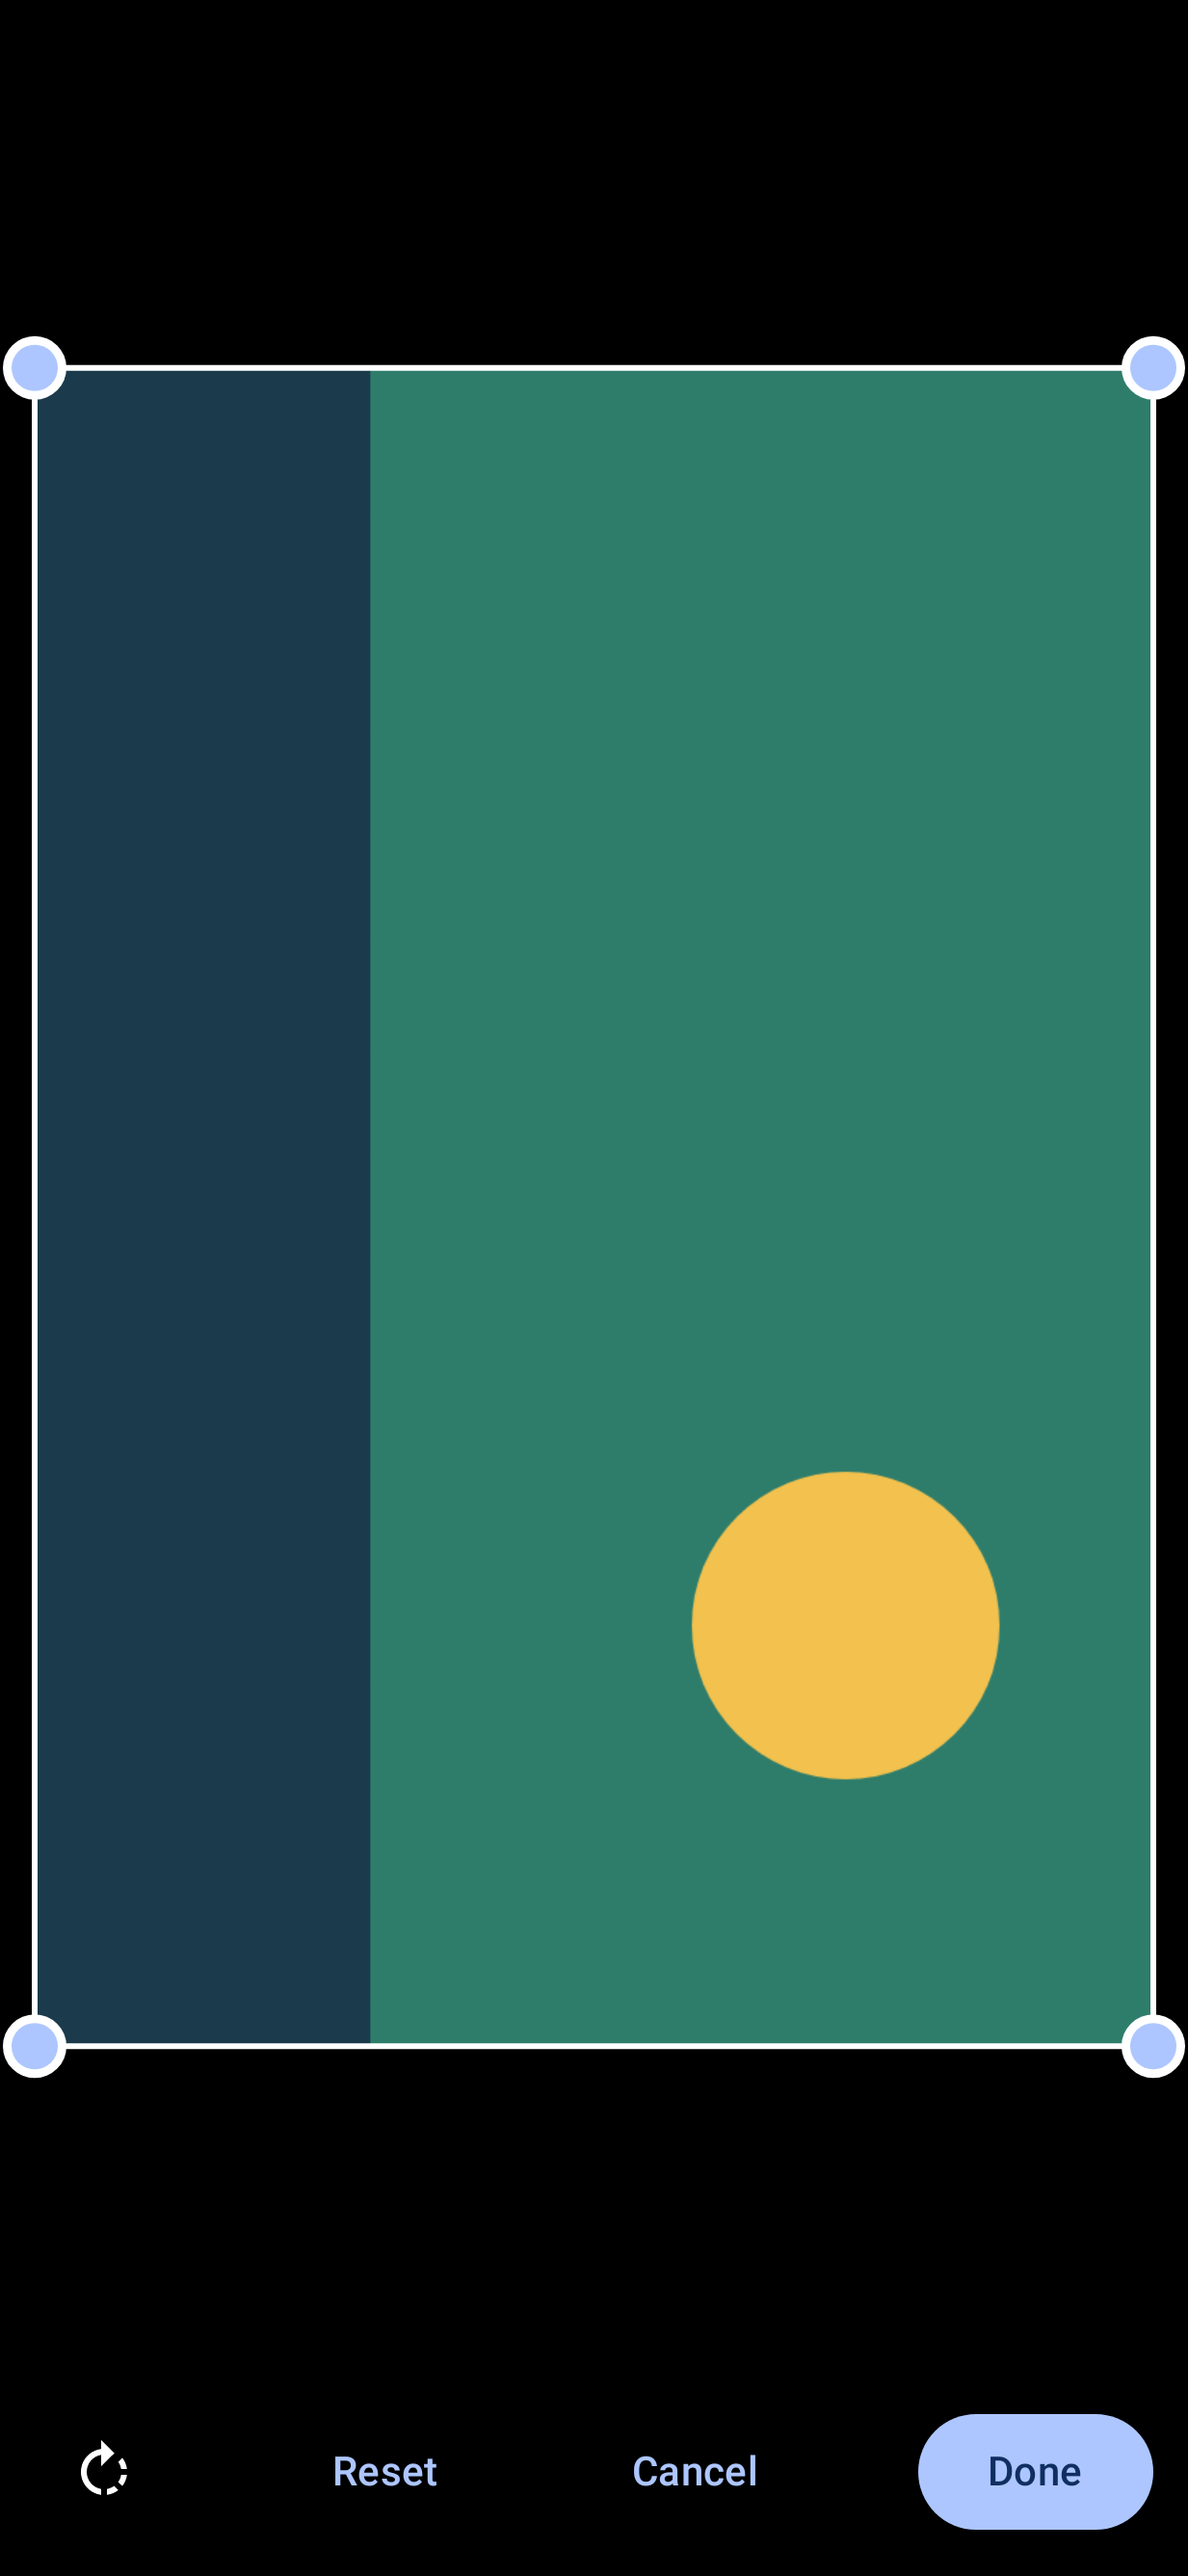
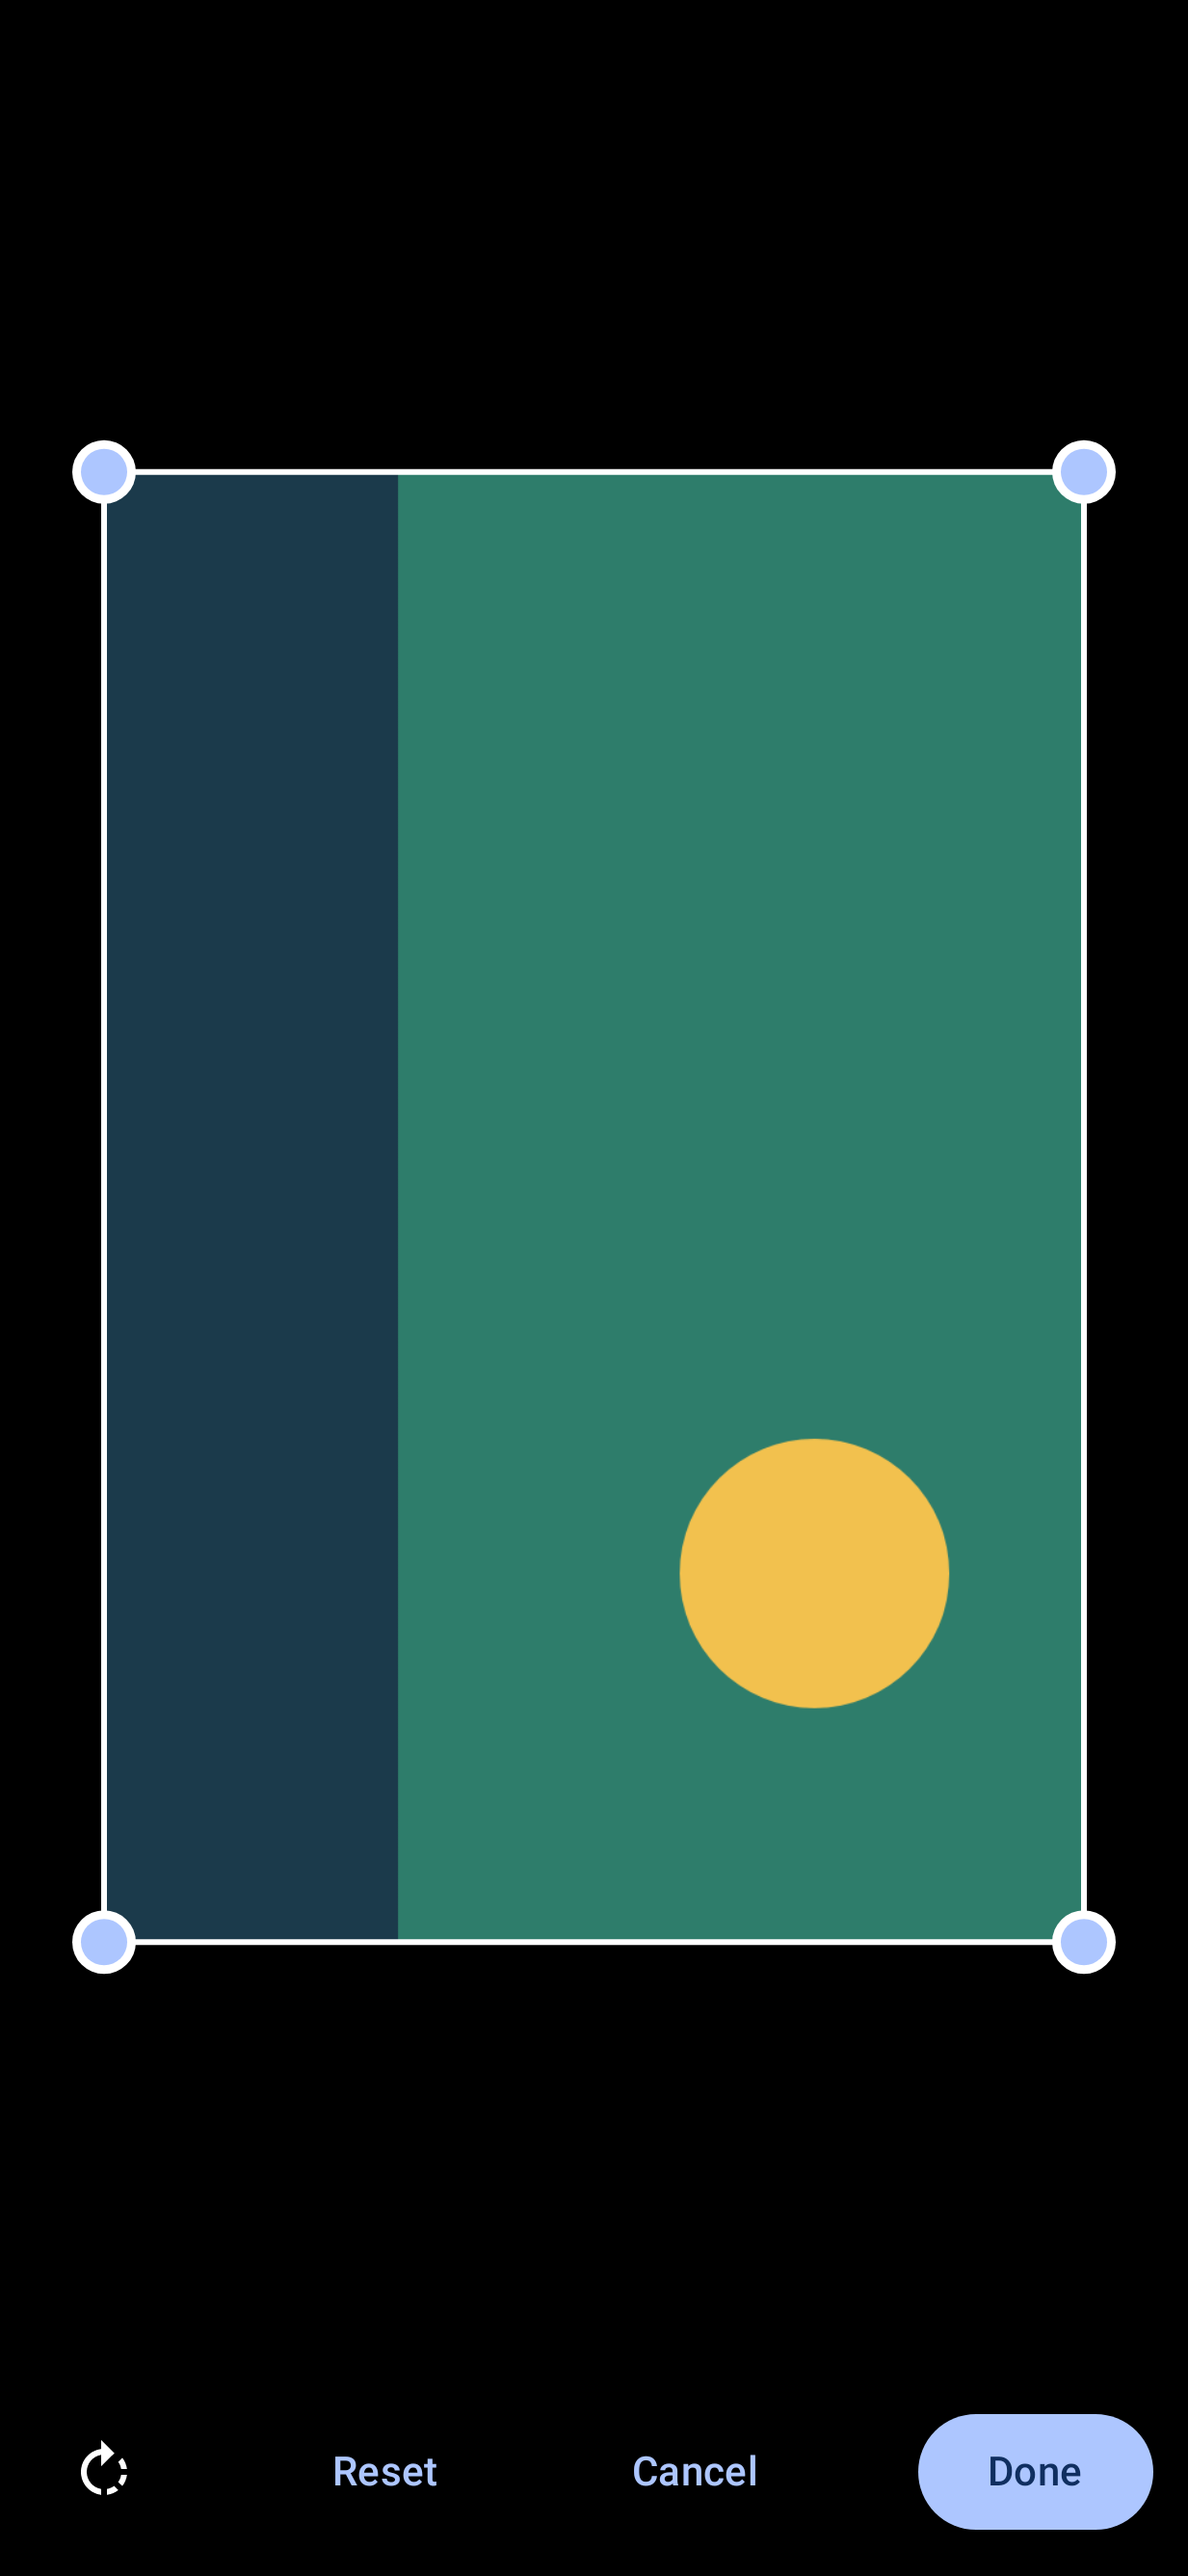
Crop editor: keep corners clear of the back swipe (AII-406)

Changed region(s): [[0.0, 0.1242, 1.0, 0.8073], [0.5547, 0.5589, 0.8629, 0.7142]]

diff --git a/app/src/main/java/com/smizflark/aigile/messenger/ui/PicEditor.kt b/app/src/main/java/com/smizflark/aigile/messenger/ui/PicEditor.kt
@@ -5,6 +5,7 @@ import android.graphics.BitmapFactory
 import android.graphics.Matrix
 import android.media.ExifInterface
 import androidx.compose.foundation.Canvas
+import androidx.compose.foundation.systemGestureExclusion
 import androidx.compose.foundation.layout.Arrangement
 import androidx.compose.foundation.layout.Box
 import androidx.compose.foundation.layout.Column
@@ -56,6 +57,9 @@ import java.util.UUID
 /* ---------- crop and rotate a picked picture (AII-385) ---------- */
 
 private const val EDIT_SIDE = 3072
+
+/** Keeps the crop handles clear of the screen edges, where Android's back swipe lives (AII-406). With the 12dp outer padding they sit 36dp in. */
+internal val PIC_EDGE_INSET = 24.dp
 
 /** Decodes the picture, big ones sampled down, turned upright by its EXIF orientation. The file itself is never changed. */
 internal fun loadForEdit(path: String): Bitmap? = runCatching {
@@ -116,7 +120,7 @@ internal fun PicEditor(path: String, onCancel: () -> Unit, onDone: (String) -> U
     val shown = remember(base, quarters) { base?.let { turned(it, quarters) } }
     Surface(Modifier.fillMaxSize().testTag("pic-editor"), color = Color.Black) {
         Column(Modifier.fillMaxSize().padding(12.dp)) {
-            Box(Modifier.weight(1f).fillMaxWidth(), contentAlignment = Alignment.Center) {
+            Box(Modifier.weight(1f).fillMaxWidth().padding(horizontal = PIC_EDGE_INSET), contentAlignment = Alignment.Center) {
                 if (shown != null) CropArea(shown, crop) { crop = it }
                 else Text(if (failed) stringResource(R.string.pic_edit_failed) else "", color = Color.White)
             }
@@ -155,7 +159,7 @@ private fun CropArea(bmp: Bitmap, crop: PicEdit.Crop, onCrop: (PicEdit.Crop) -> 
     val left = (box.width - w) / 2f; val top = (box.height - h) / 2f
     val latest = androidx.compose.runtime.rememberUpdatedState(crop)
     Canvas(
-        Modifier.fillMaxSize().testTag("pic-crop")
+        Modifier.fillMaxSize().testTag("pic-crop").systemGestureExclusion()
             .onSizeChanged { box = it }
             .pointerInput(bmp, box) {
                 var corner: PicEdit.Corner? = null

diff --git a/app/src/test/java/com/smizflark/aigile/messenger/PicEditorInsetTest.kt b/app/src/test/java/com/smizflark/aigile/messenger/PicEditorInsetTest.kt
@@ -1,0 +1,11 @@
+package com.smizflark.aigile.messenger
+
+import androidx.compose.ui.unit.dp
+import com.smizflark.aigile.messenger.ui.PIC_EDGE_INSET
+import org.junit.Assert.assertTrue
+import org.junit.Test
+
+class PicEditorInsetTest {
+    /** AII-406: the editor has 12dp outside padding, so with the inset the crop handles sit at least 24dp from the screen edge. */
+    @Test fun handlesStayClearOfTheBackSwipe() = assertTrue(12.dp + PIC_EDGE_INSET >= 24.dp)
+}
